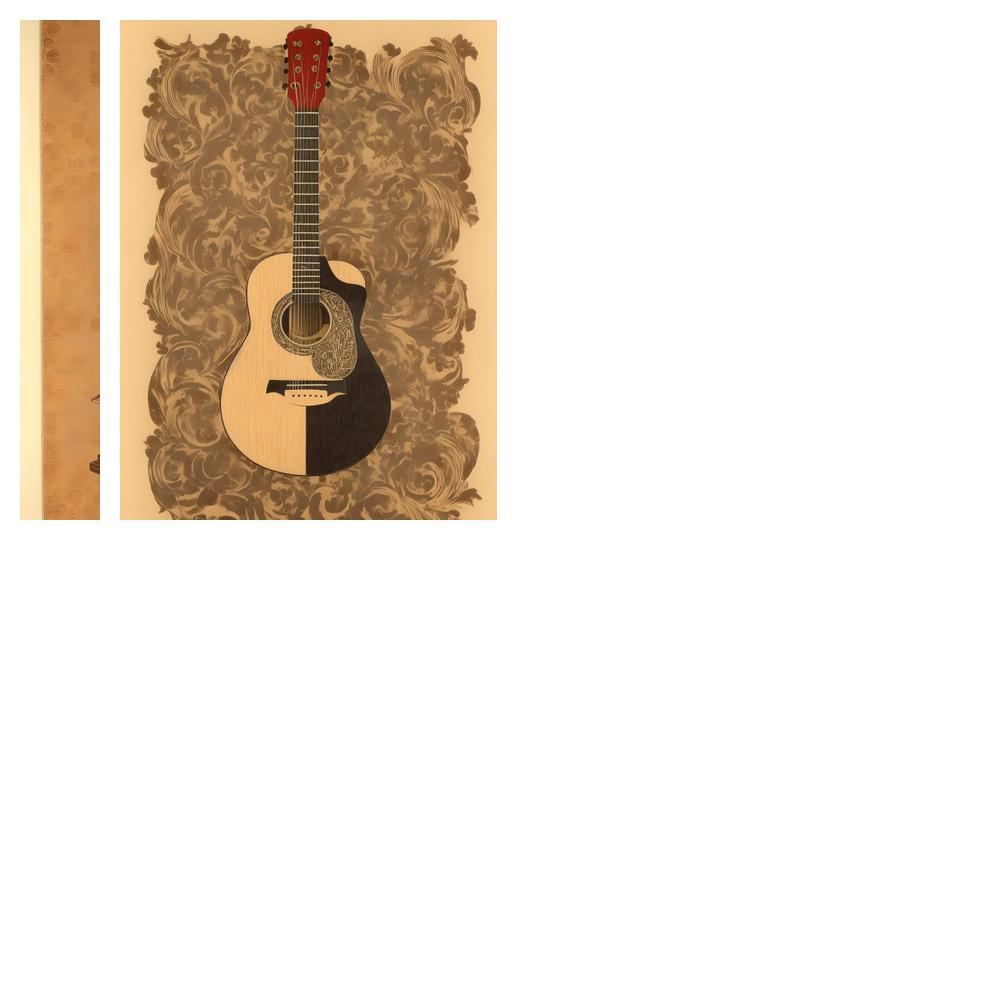
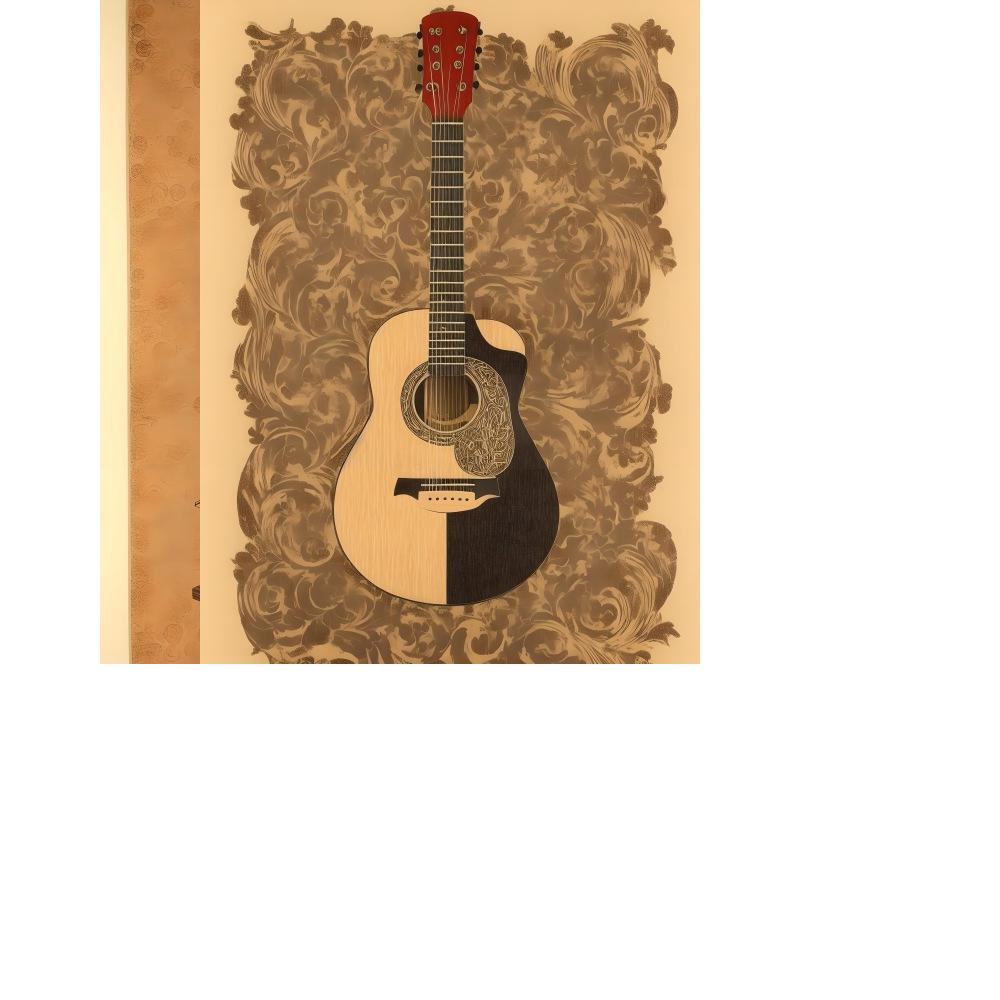
First push

diff --git a/my_contact_sheets.py b/my_contact_sheets.py
@@ -5,24 +5,36 @@ from file_utils import get_all_files
 
 def create_contact_sheet(images_path, output_size: int = 1000):
     images = get_all_files(images_path)
-    contact_sheet = Image.new('RGB', (output_size, output_size),(255, 255, 255))
+    contact_sheet = Image.new('RGB', (output_size, output_size), (255, 255, 255))
 
-    x=0
+    rows = 0
+    cols = 0
+
+    margin = output_size * 0.1
+
+    if len(images) == 2:
+        rows = 1
+        cols = 2
+    thumb_height = output_size / rows - (2 * rows * margin)
+    img = Image.open(images[0])
+    thumb_width = thumb_height * img.width / img.height
+
+    x = 0
     for image_filepath in images:
-            img = Image.open(image_filepath)
-            # img = img.resize((500,500))
-            img.thumbnail((500,500), Image.Resampling.LANCZOS)
+        img = Image.open(image_filepath)
+        # img = img.resize((500,500))
+        img.thumbnail((thumb_width, thumb_height), Image.Resampling.LANCZOS)
 
-            border_size = 20  # You can adjust this value to control the width of the border
-            border_color = (255, 255, 255)  # (R, G, B) value for white color
+        # border_size = 20  # You can adjust this value to control the width of the border
+        # border_color = (255, 255, 255)  # (R, G, B) value for white color
+        #
+        # img = ImageOps.expand(img, border=border_size, fill=border_color)
 
-            img = ImageOps.expand(img, border=border_size, fill=border_color)
+        # shadow_offset = (10, 10)  # Adjust these values to control the offset of the shadow
+        # shadow_color = (0, 0, 0, 100)  # (R, G, B, alpha) value for black color with transparency (alpha)
 
-            shadow_offset = (10, 10)  # Adjust these values to control the offset of the shadow
-            shadow_color = (0, 0, 0, 100)  # (R, G, B, alpha) value for black color with transparency (alpha)
-
-            contact_sheet.paste(img,(x,0))
-            x +=100
+        contact_sheet.paste(img, (x + int(margin), 0))
+        x += 100
 
     contact_sheet.save('./my_contact_sheet.jpg')
 
